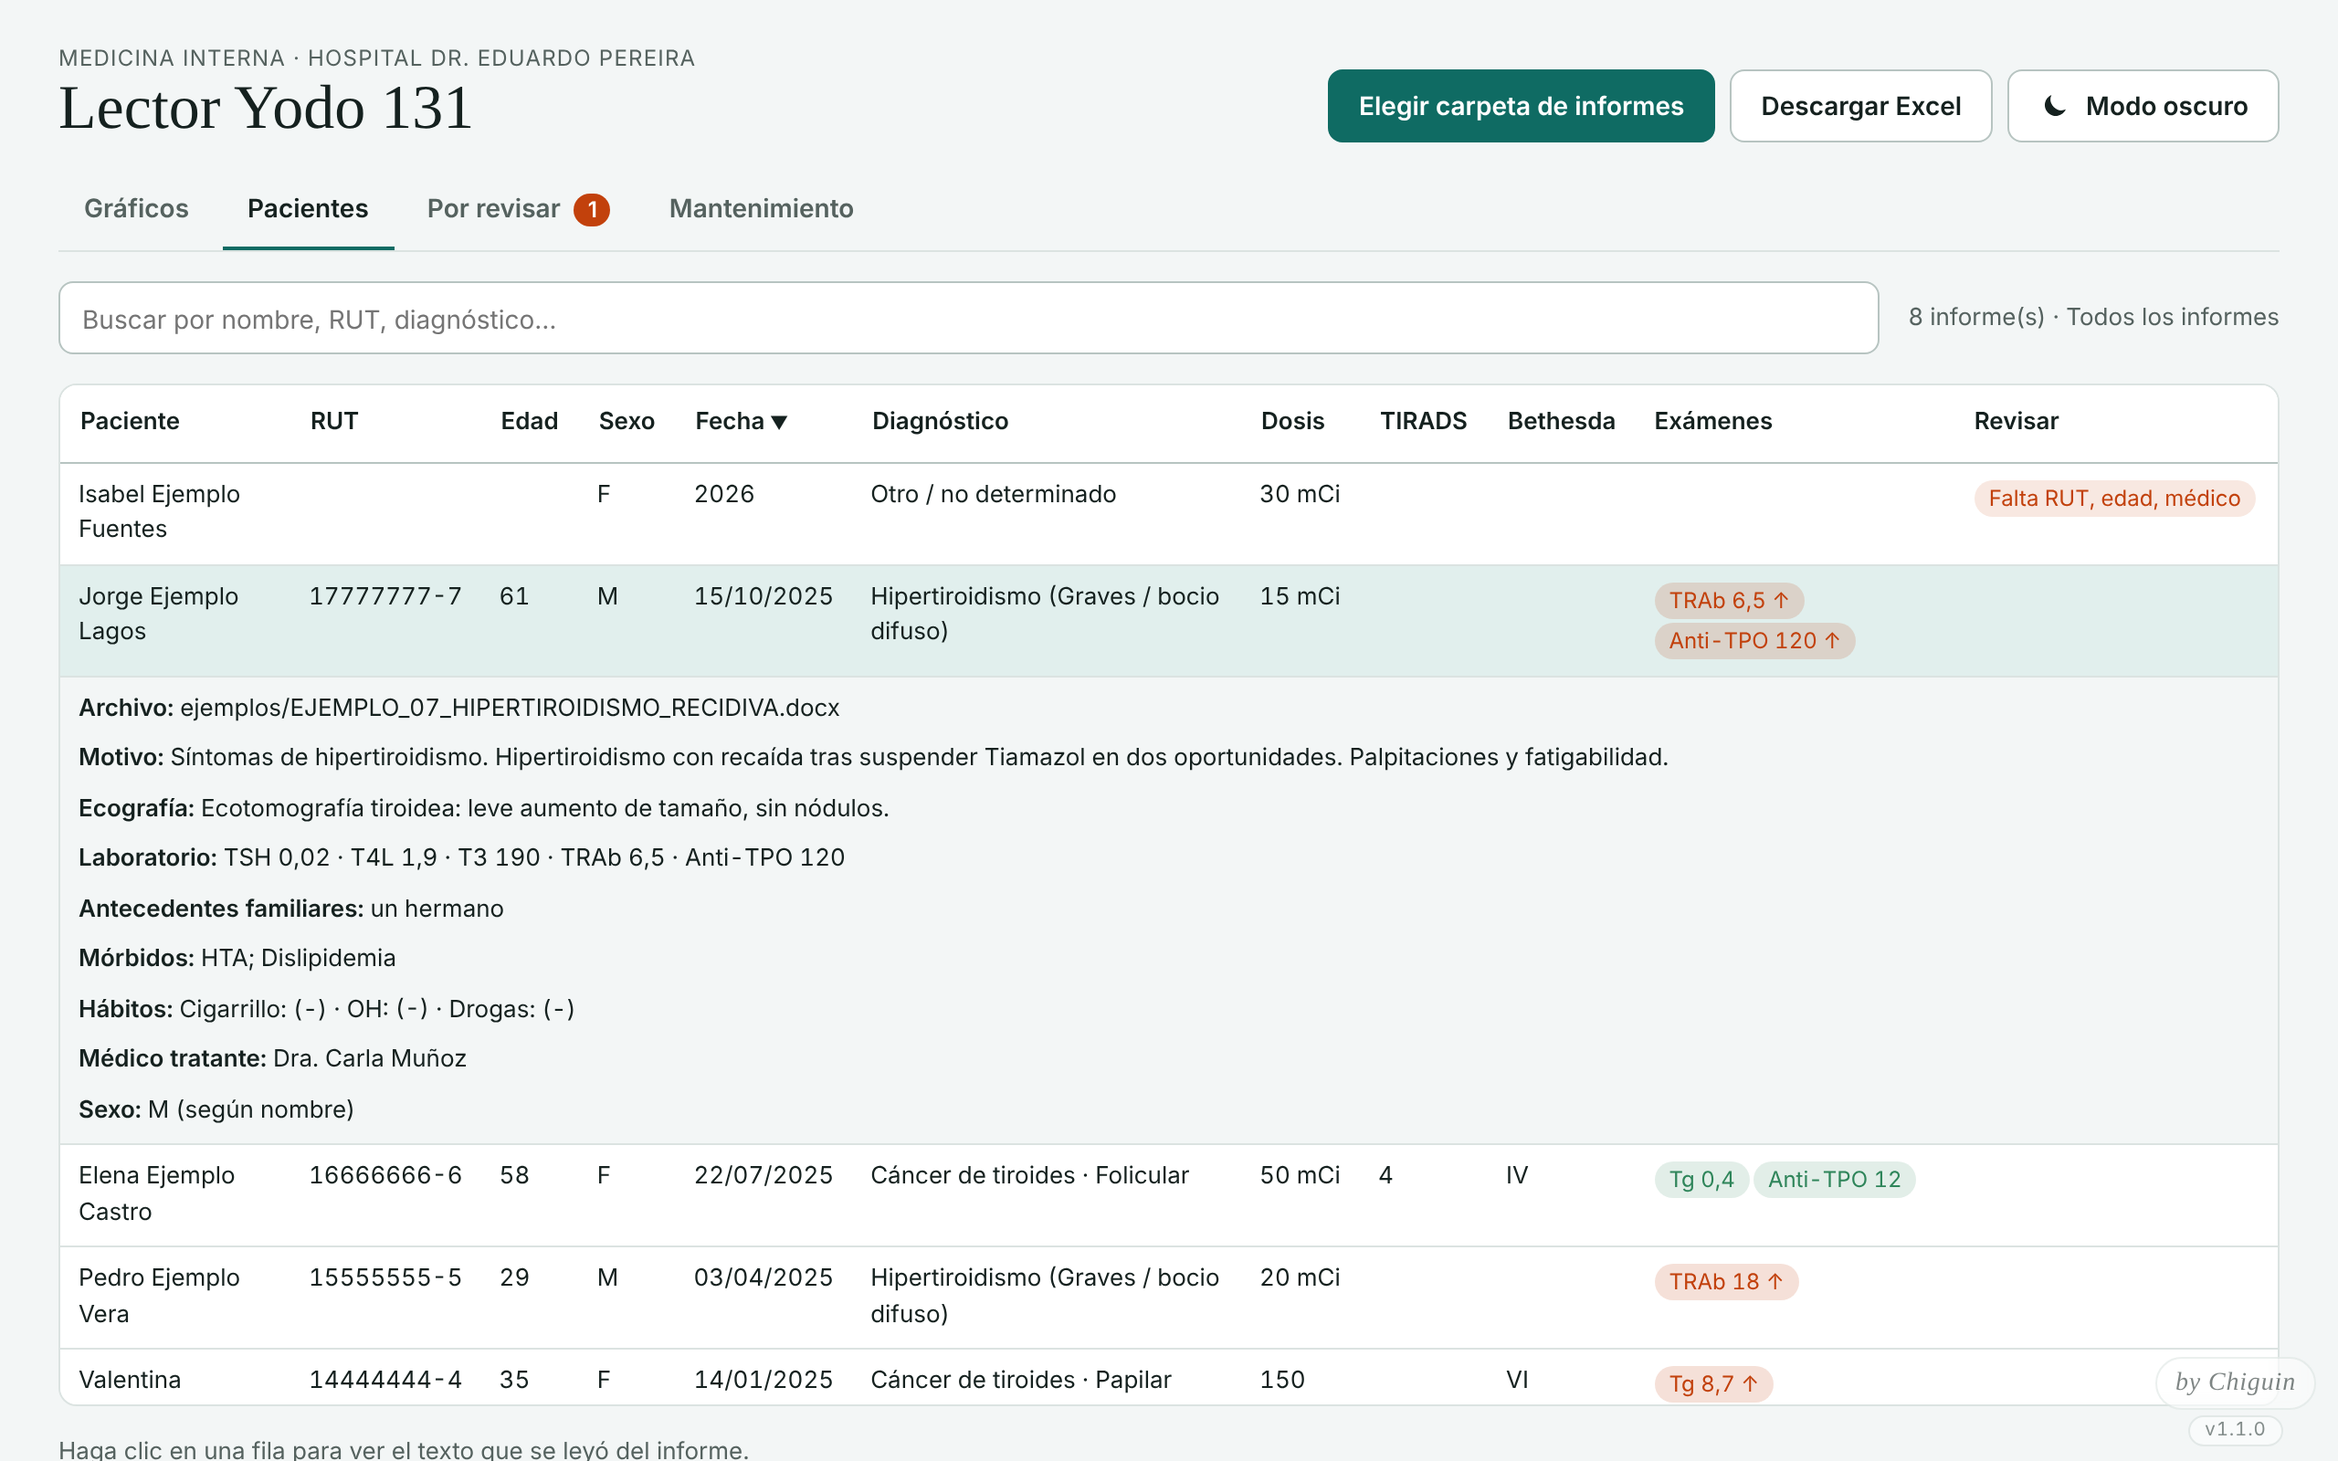
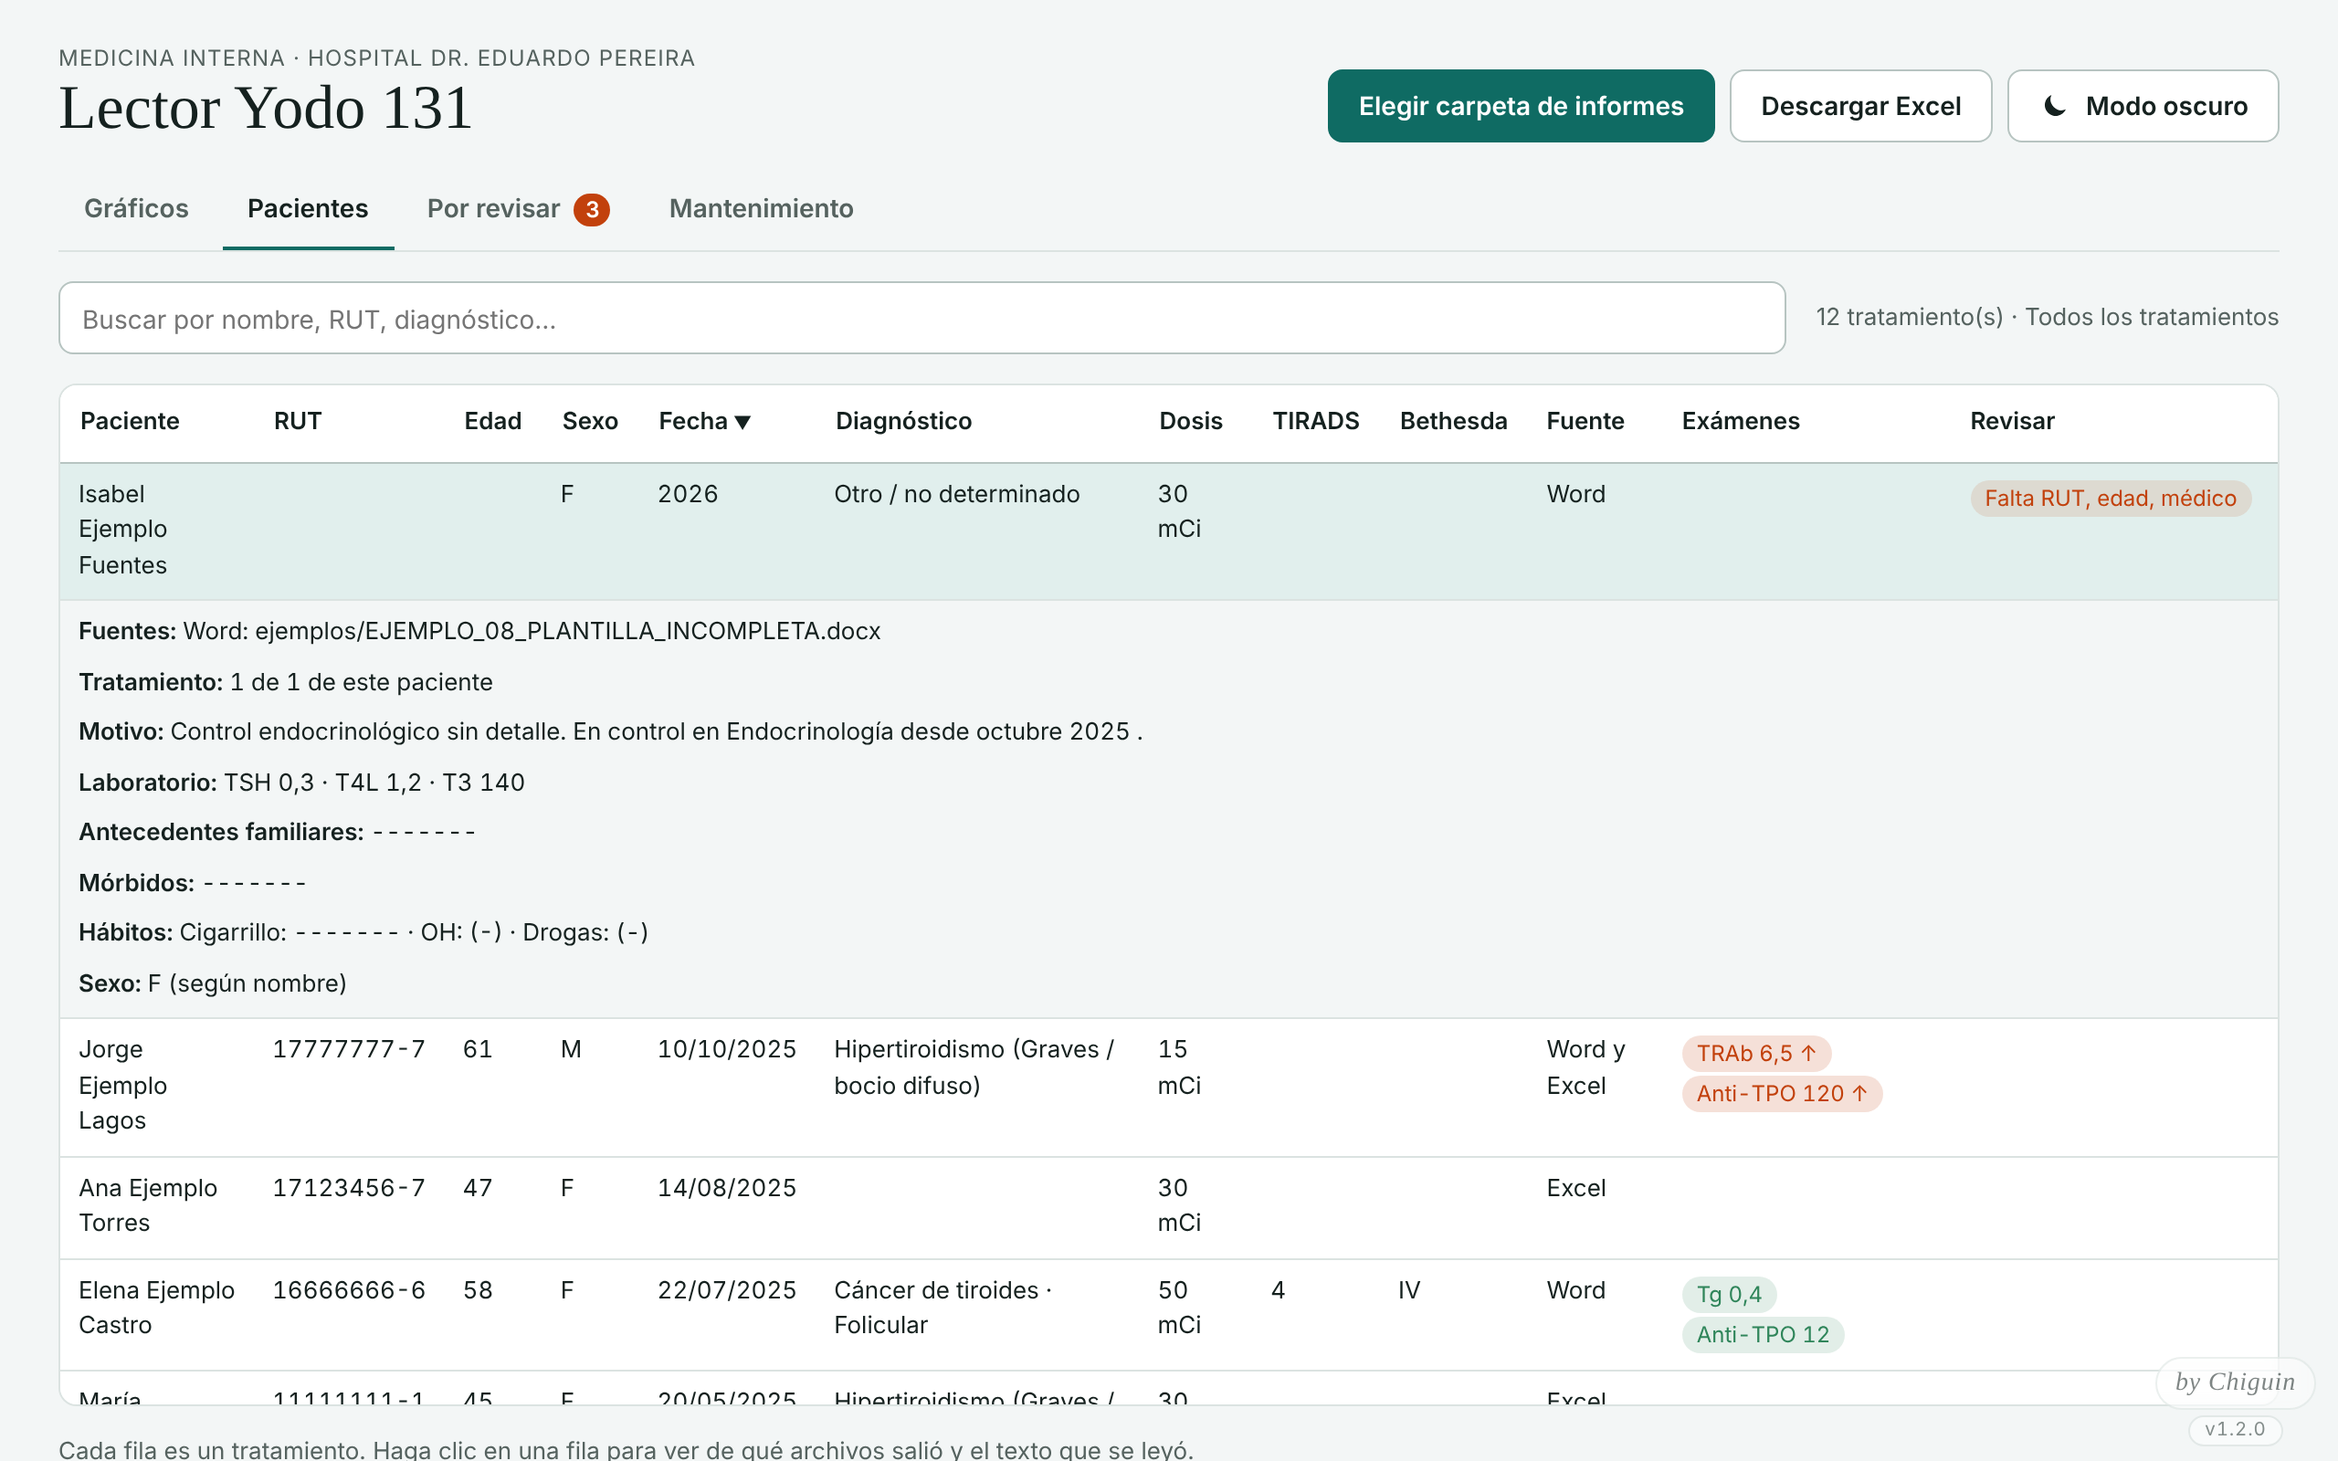
chore(version): publica la versión 1.2.0 con documentación y capturas
Qué cambió:
- version.js, package.json y package-lock.json: 1.1.1 → 1.2.0. Es una
  versión menor porque agrega la lectura de planillas Excel, la fusión de
  fuentes y la cobertura de datos, sin cambiar la forma de usar el programa.
- CHANGELOG.md: entrada 1.2.0 con lo agregado y lo cambiado.
- README.md:
  - qué archivos lee;
  - tabla de pacientes, tratamientos y registros repetidos;
  - cómo se combinan las fuentes y cómo se marcan las discrepancias;
  - qué significa la cobertura;
  - qué dato aporta cada fuente;
  - módulos nuevos en la arquitectura y pruebas de fusión.
- LEEME para la usuaria: puede incluir los Excel en la carpeta y debe
  revisar "Por revisar" cuando los datos no coinciden.
- docs/capturas: regeneradas con los ejemplos ficticios de Word y Excel.

Probado: 24 pruebas de node:test aprobadas, incluidas la versión en el
CHANGELOG y la firma con "v1.2.0" en Chromium.

diff --git a/Sistema - no tocar/js/version.js b/Sistema - no tocar/js/version.js
@@ -1,3 +1,3 @@
 (function (ns) {
-  ns.VERSION_APLICACION = '1.1.1';
+  ns.VERSION_APLICACION = '1.2.0';
 })(globalThis.LectorYodo = globalThis.LectorYodo || {});

diff --git a/README.md b/README.md
@@ -2,33 +2,53 @@
 
 [![Pruebas](https://github.com/JstChiguin/Yodo131/actions/workflows/pruebas.yml/badge.svg)](https://github.com/JstChiguin/Yodo131/actions/workflows/pruebas.yml)
 
-Herramienta **offline** que lee los informes de solicitud de yodoterapia (yodo 131) escritos en Word y los convierte en **gráficos y una planilla Excel**, sin que nadie tenga que transcribir datos.
+Herramienta **offline** que lee los informes de solicitud de yodoterapia (yodo 131) escritos en Word y las planillas Excel históricas, y los convierte en **gráficos y una planilla Excel consolidada**, sin que nadie tenga que transcribir datos.
 
 Nació para resolver un problema real en un servicio de Medicina Interna: la endocrinóloga redacta un informe Word por paciente y necesitaba estadísticas (edad, sexo, motivo de consulta, resultados de exámenes, frecuencia de cáncer de tiroides) sin tener que llenar planillas. El programa vive en su pendrive, se abre con doble clic y se actualiza solo cada vez que se agregan informes.
 
-> **Privacidad:** este repositorio no contiene datos de pacientes. Los informes de la carpeta `ejemplos/` y las capturas son ficticios.
+> **Privacidad:** este repositorio no contiene datos de pacientes. Los informes y planillas de la carpeta `ejemplos/` y las capturas son ficticios.
 
 ![Gráficos generados a partir de informes ficticios](docs/capturas/graficos.png)
 
 ## Qué hace
 
-1. La usuaria elige la carpeta de informes (o la arrastra a la ventana).
-2. El programa abre cada `.docx`, encuentra los informes (un Word puede traer varios) y extrae los datos del texto.
-3. Muestra gráficos, una tabla de pacientes y una lista de datos por revisar; con un botón descarga el Excel.
+1. La usuaria elige la carpeta de informes (o la arrastra a la ventana). Puede contener informes Word y planillas Excel.
+2. El programa lee cada archivo:
+   - **Informes Word (`.docx`):** un archivo puede traer varios informes;
+   - **planilla de yodo 131 (`.xlsx`):** una hoja por año;
+   - **registro de cáncer de tiroides C73 (`.xlsx`):** se reconoce por su contenido.
+3. Agrupa los registros en pacientes y tratamientos, combina las fuentes y marca las discrepancias.
+4. Muestra gráficos, una tabla de tratamientos y una lista de datos por revisar. Con un botón descarga el Excel consolidado.
 
-Cada gráfico explica qué muestra, destaca su conclusión principal (por ejemplo, el diagnóstico más frecuente y su porcentaje) e indica cantidad y porcentaje en cada barra. TIRADS y Bethesda muestran el significado de cada categoría. Al pasar el mouse por una barra aparece el detalle. Hay un botón para alternar entre modo claro y oscuro; el programa siempre abre en modo claro.
+### Pacientes, tratamientos y registros repetidos
 
-Datos que obtiene de cada informe:
-
-| Grupo | Campos |
+| Concepto | Cómo se cuenta |
 |---|---|
-| Paciente | nombre, RUT, edad, sexo (inferido, con su origen), fecha |
-| Consulta | motivo (texto y categoría), médico tratante, dosis de yodo 131, rechazo del tratamiento |
-| Diagnóstico | cáncer de tiroides / hipertiroidismo / bocio multinodular, tipo histológico, estadificación y riesgo |
-| Imágenes | ecografía (TIRADS, nódulos, adenopatías), cintigrama |
-| Punción | resultado y categoría Bethesda |
-| Laboratorio | TSH, T4L, T3, TRAb, tiroglobulina, anti-tiroglobulina, anti-TPO, con estado normal / elevado |
-| Antecedentes | familiares tiroideos, mórbidos, tabaco, alcohol, drogas |
+| **Paciente único** | Una persona cuenta una vez. Se identifica por RUT o, si falta, por nombre. |
+| **Tratamiento** | Paciente + fecha. Una persona tratada en 2019 y en 2023 tiene dos tratamientos. |
+| **Registro repetido** | Dos registros del mismo paciente con 60 días o menos de diferencia (por ejemplo, el Word y la fila del Excel, o dos filas del Excel) son el mismo tratamiento y cuentan una sola vez. |
+
+### Combinación de fuentes sin decidir en silencio
+
+Si el Word y el Excel describen el mismo tratamiento, se conserva lo que aporta cada uno; por ejemplo, la fecha del Excel y el diagnóstico y los exámenes del Word. Si se contradicen (dosis, edad, médico, diagnóstico, antecedentes o sexo), el programa **no elige**: el dato queda fuera de los gráficos y aparece en *Por revisar* con el valor y la ubicación de cada fuente. También avisa cuando un mismo RUT aparece con nombres distintos.
+
+### Cobertura de cada dato
+
+No es lo mismo un examen normal que un examen que nunca se registró. Cada gráfico indica la cobertura (por ejemplo: *"Dato disponible en 40 de 100 tratamientos (40%). Sin dato: 60 (60%)"*) y calcula los porcentajes solo sobre los que tienen el dato.
+
+Datos que se obtienen:
+
+| Grupo | Word | Excel yodo 131 | Registro C73 |
+|---|---|---|---|
+| Paciente: nombre, RUT, edad, fecha | ✅ | ✅ | ✅ |
+| Sexo | deducido (con su origen) | ✅ (desde 2023) | ✅ |
+| Médico y dosis | ✅ | ✅ | — |
+| Diagnóstico | ✅ | solo algunas hojas | cáncer de tiroides |
+| Motivo, ecografía (TIRADS), punción (Bethesda), tipo histológico | ✅ | — | — |
+| TSH, T4L, T3, TRAb, tiroglobulina, anti-tiroglobulina, anti-TPO | ✅ | — | — |
+| Antecedentes familiares, mórbidos, tabaco, alcohol, drogas | ✅ | ✅ (desde 2023) | — |
+
+Cada gráfico explica qué muestra, destaca su conclusión principal e indica cantidad y porcentaje en cada barra. TIRADS y Bethesda muestran el significado de cada categoría. Al pasar el mouse por una barra aparece el detalle. Hay un botón para alternar entre modo claro y oscuro; el programa siempre abre en modo claro.
 
 | Pacientes | Por revisar | Celular |
 |---|---|---|
@@ -47,6 +67,7 @@ Datos que obtiene de cada informe:
 
 - **Página local en vez de ejecutable:** los computadores institucionales suelen bloquear programas `.exe` que se ejecutan desde un pendrive. Una página HTML se abre en cualquier navegador sin instalar nada.
 - **Formato de los informes:** cada informe empieza con `NOMBRE:`, y un Word puede traer varios. El motivo de consulta es el texto libre que va entre `FECHA:` y la primera línea con etiqueta. La dosis sale de la frase "se decide administrar N mC".
+- **Mismo tratamiento:** dos registros del mismo paciente con 60 días o menos de diferencia (constante `VENTANA_MISMO_TRATAMIENTO_DIAS` en `fusionTratamientos.js`). Si una fecha solo trae mes o año, se compara con esa precisión.
 - **Diagnóstico:** se clasifica en este orden de prioridad: cáncer de tiroides → bocio multinodular o nódulo hiperfuncionante → hipertiroidismo → otro. Las líneas de mórbidos y de antecedentes familiares no se consideran, para que un cáncer de otro órgano no cuente como cáncer de tiroides.
 - **Sexo:** el informe no lo trae. Se deduce de los datos gineco-obstétricos, luego del nombre y luego de palabras del texto; si no hay forma de saberlo, queda "Sin dato". La tabla muestra de dónde salió cada uno.
 - **Médicos:** no hay una lista fija de nombres. El programa une las variantes del mismo nombre ("Dra. Pérez", "Dra Ana Pérez") con la forma más completa, y el título Dr./Dra. se decide por mayoría.
@@ -64,10 +85,14 @@ Sistema - no tocar/
   css/estilos.css                estilos (tema claro y oscuro, responsive)
   js/
     version.js                   versión de la aplicación (única fuente)
-    lectorDocx.js                acceso a datos: zip → document.xml → párrafos
-    extractorInforme.js          divide informes y extrae campos
+    lectorZip.js                 acceso a datos: lectura de archivos zip (Word y Excel son zip)
+    lectorDocx.js                Word → párrafos
+    lectorXlsx.js                Excel → hojas y celdas (textos, números, fechas)
+    extractorInforme.js          divide informes Word y extrae campos
+    extractorExcel.js            reconoce planillas de yodo y registro C73 y extrae sus filas
     clasificador.js              reglas: diagnóstico, motivo, umbrales, sexo, médicos
-    procesadorInformes.js        orquesta lectura → extracción → clasificación
+    fusionTratamientos.js        pacientes únicos, tratamientos, registros repetidos y discrepancias
+    procesadorInformes.js        orquesta lectura → extracción → clasificación → fusión
     estadisticas.js              conteos y filtro por período
     exportadorExcel.js           genera el .xlsx
     configuracion.js             umbrales guardados en el navegador
@@ -78,8 +103,8 @@ Sistema - no tocar/
     tema.js                      modo claro / oscuro
     selloAutor.js                firma «by Chiguin» y versión, fijas en pantalla
     app.js                       interfaz y eventos
-ejemplos/                        informes ficticios para probar
-herramientas/generarEjemplos.py  genera esos informes
+ejemplos/                        informes Word y planillas Excel ficticios para probar
+herramientas/generarEjemplos.py  genera esos ejemplos (python-docx y openpyxl)
 pruebas/                         pruebas automáticas (Node)
 ```
 
@@ -98,12 +123,19 @@ npm ci                                       # instala Playwright (solo para pru
 npx playwright install chromium              # navegador para las pruebas
 npm test                                     # todas las pruebas
 node pruebas/revisarCarpeta.mjs ejemplos     # muestra lo que se extrae de cada informe
-python3 herramientas/generarEjemplos.py      # regenera los informes de ejemplo (requiere python-docx)
+python3 herramientas/generarEjemplos.py      # regenera los ejemplos (requiere python-docx y openpyxl)
 ```
 
 Qué se prueba:
 
 - **Extracción:** reglas de lectura con informes ficticios (datos, laboratorio, errores de tipeo, varios informes en un Word, plantillas incompletas, unificación de médicos).
+- **Fusión y cobertura:** con los ejemplos ficticios verifica que:
+  - un paciente tratado dos veces cuente como dos tratamientos;
+  - los registros repetidos no sumen;
+  - Word y Excel se combinen;
+  - las discrepancias queden por revisar;
+  - el cáncer se cuente por paciente;
+  - los porcentajes usen solo los datos disponibles.
 - **Integridad de la firma:** abre la aplicación en Chromium en escritorio, tablet y celular, en modo claro y oscuro, recorre todas las pestañas y comprueba que:
   - el texto sea exactamente `by Chiguin`;
   - la versión real aparezca centrada debajo;

diff --git a/CHANGELOG.md b/CHANGELOG.md
@@ -2,6 +2,23 @@
 
 Formato basado en [Keep a Changelog](https://keepachangelog.com/es-ES/1.1.0/) y [versionado semántico](https://semver.org/lang/es/).
 
+## [1.2.0] - 2026-10-24
+
+### Agregado
+- Lectura de planillas Excel (`.xlsx`) sin librerías: la planilla de yodo 131, con una hoja por año, y el registro de cáncer de tiroides (C73). El tipo de cada hoja se reconoce por su contenido. Se toleran filas con columnas corridas, como en la hoja "LISTADO".
+- Distinción entre **pacientes únicos** (una persona cuenta una vez), **tratamientos** (paciente + fecha; una persona puede tener varios) y **registros repetidos** del mismo tratamiento. Dos registros del mismo paciente con 60 días o menos de diferencia se consideran el mismo tratamiento y no aumentan las estadísticas.
+- Combinación de datos entre Word y Excel del mismo tratamiento: se conserva lo que aporta cada fuente (por ejemplo, la fecha del Excel y el diagnóstico del Word).
+- Detección de discrepancias entre fuentes: dosis, edad, médico, diagnóstico, exámenes, antecedentes y sexo, este último comparando lo registrado con lo deducido del nombre. También se avisa cuando un mismo RUT aparece con nombres distintos. El dato en discrepancia queda fuera de los gráficos y aparece en "Por revisar", con el valor y la ubicación de cada fuente.
+- Cobertura en cada gráfico: cuántos tratamientos tienen el dato y cuántos no. Los porcentajes se calculan solo sobre los que tienen el dato, y un examen no registrado no se cuenta como normal.
+- Gráfico de pacientes con cáncer de tiroides por año de primer registro, y gráfico del origen de los datos (Word, Excel o ambos).
+- Cifras de pacientes únicos, pacientes con más de un tratamiento, registros unidos y datos que no coinciden.
+- Excel exportado con las hojas Tratamientos (con sus fuentes), Resumen (con cobertura), Por revisar y No leídos.
+- Planillas Excel ficticias de ejemplo y pruebas de fusión y cobertura.
+
+### Cambiado
+- Un dato ausente se informa como "sin dato", en vez de usar categorías como "Otro" o "Sin motivo escrito".
+- El lector de archivos comprimidos se comparte entre Word y Excel (`lectorZip.js`).
+
 ## [1.1.1] - 2026-10-24
 
 ### Corregido
